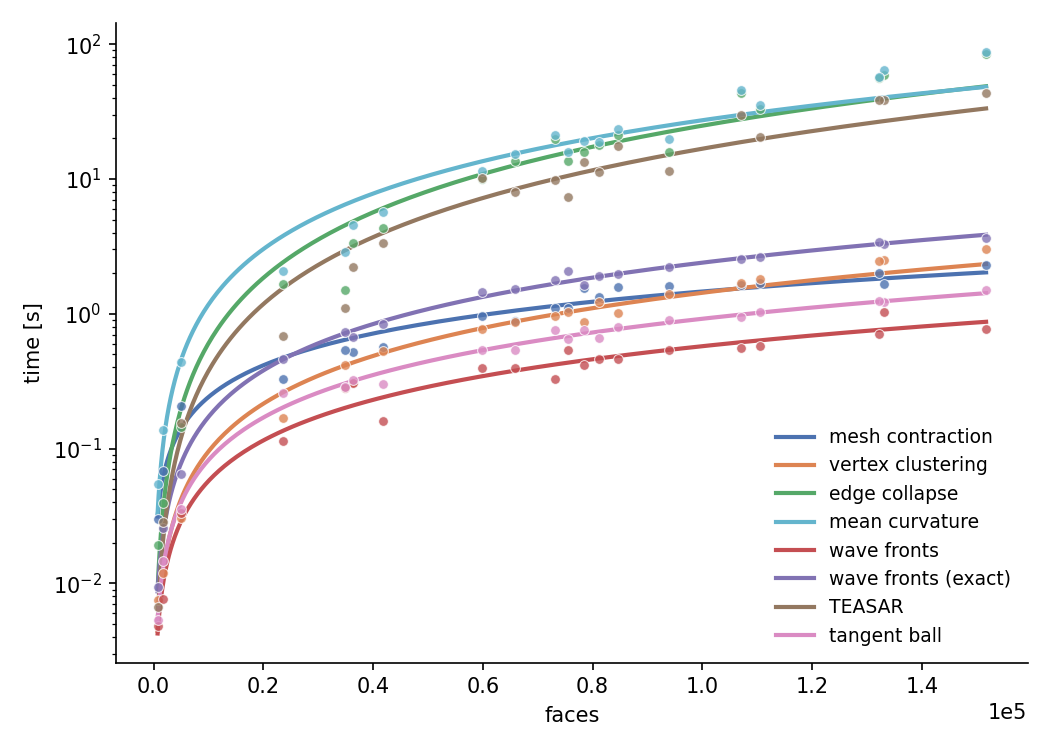
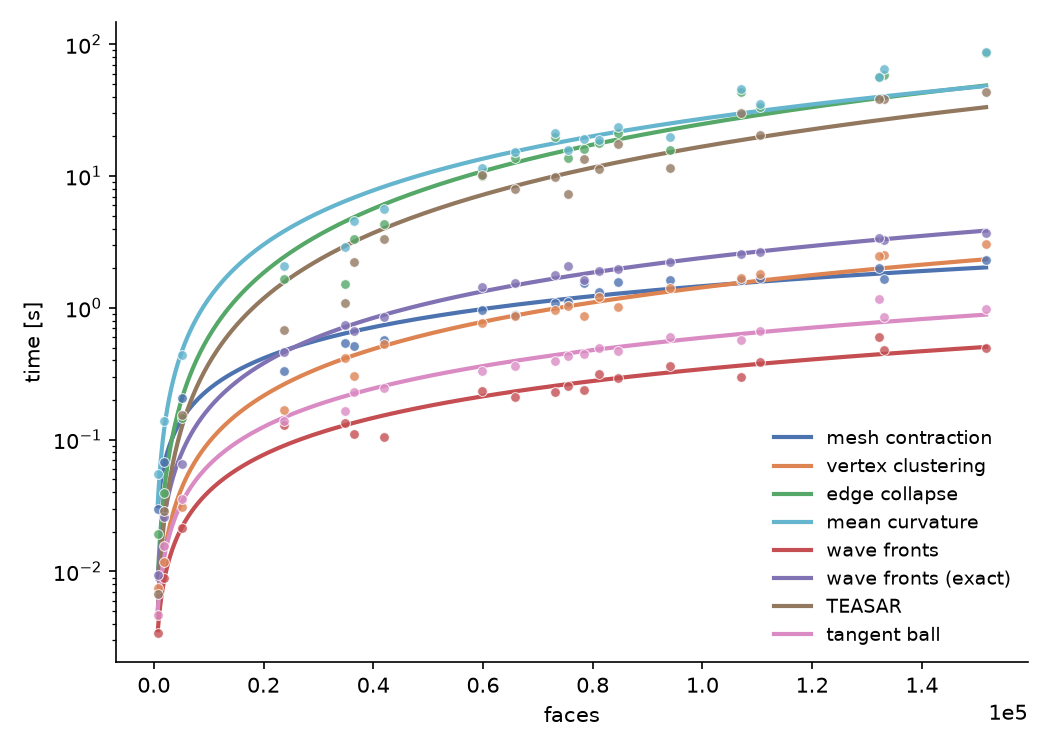
speed up wave front and tangent ball method

diff --git a/skeletor/skeletonize/utils.py b/skeletor/skeletonize/utils.py
@@ -28,6 +28,7 @@ import numpy as np
 import pandas as pd
 import trimesh as tm
 import scipy.sparse
+import scipy.sparse.csgraph
 import scipy.spatial
 
 
@@ -228,6 +229,70 @@ def make_swc(x, coords, reindex=True, validate=True):
         return swc, new_ids
 
     return swc
+
+
+def forest_to_swc(edges, coords, radii, n_nodes):
+    """Generate SWC table directly from a forest (i.e. one tree per component).
+
+    This is a fast alternative to the ``edges_to_graph`` -> ``make_swc`` ->
+    ``reindex_swc`` pipeline for the case where the edges already form a
+    spanning forest: each tree is rooted at its lowest node ID and oriented
+    child -> parent, and new node IDs are assigned in BFS order which
+    guarantees that parents have lower IDs than their children.
+
+    Parameters
+    ----------
+    edges :     (N, 2) array
+                Edge list describing a forest (no cycles!) over nodes
+                ``0..n_nodes-1``. Isolated nodes are allowed and become roots.
+    coords :    (n_nodes, 3) array
+                X/Y/Z locations of nodes.
+    radii :     (n_nodes, ) array
+                Radius for each node.
+    n_nodes :   int
+                Total number of nodes.
+
+    Returns
+    -------
+    swc :       pandas.DataFrame
+    new_ids :   (n_nodes, ) array
+                Maps original node IDs (positional) to re-indexed node IDs.
+
+    """
+    edges = np.asarray(edges, dtype=np.int64).reshape(-1, 2)
+    adj = scipy.sparse.coo_matrix((np.ones(len(edges)),
+                                   (edges[:, 0], edges[:, 1])),
+                                  shape=(n_nodes, n_nodes))
+    _, labels = scipy.sparse.csgraph.connected_components(adj, directed=False)
+
+    # First occurrence of each label = lowest node ID in that component
+    roots = np.unique(labels, return_index=True)[1]
+
+    # With unit weights this is effectively a BFS from all roots at once;
+    # because the graph is a forest the resulting orientation is unique
+    dist, pred, _ = scipy.sparse.csgraph.dijkstra(adj, directed=False,
+                                                  indices=roots,
+                                                  return_predecessors=True,
+                                                  min_only=True)
+
+    # Sorting by BFS depth puts parents before their children
+    order = np.argsort(dist, kind='stable')
+    new_ids = np.empty(n_nodes, dtype=np.int64)
+    new_ids[order] = np.arange(n_nodes)
+
+    parent_ord = pred[order].astype(np.int64)  # -9999 for roots/isolated nodes
+    parent_new = np.full(n_nodes, -1, dtype=np.int64)
+    has_parent = parent_ord >= 0
+    parent_new[has_parent] = new_ids[parent_ord[has_parent]]
+
+    swc = pd.DataFrame({'node_id': np.arange(n_nodes),
+                        'parent_id': parent_new,
+                        'x': coords[order, 0],
+                        'y': coords[order, 1],
+                        'z': coords[order, 2],
+                        'radius': radii[order]})
+
+    return swc, new_ids
 
 
 def reindex_swc(swc, inplace=False):

diff --git a/skeletor/skeletonize/wave.py b/skeletor/skeletonize/wave.py
@@ -25,7 +25,7 @@ from tqdm.auto import tqdm
 
 from ..utilities import make_trimesh
 from .base import Skeleton
-from .utils import make_swc, reindex_swc, edges_to_graph
+from .utils import forest_to_swc
 
 try:
     from fastremap import unique
@@ -145,11 +145,19 @@ def by_wavefront(mesh,
      vertex_to_node_map) = unique(centers_final, return_inverse=True, axis=0)
 
     # Map radii for individual vertices to the collapsed nodes
-    # Using pandas is the fastest way here
-    node_radii = pd.DataFrame()
-    node_radii['node_id'] = vertex_to_node_map
-    node_radii['radius'] = radii_final
-    node_radii = node_radii.groupby('node_id').radius.apply(rad_agg_func).values
+    # (node IDs from unique() are contiguous 0..M-1, so the sorted groupby
+    # output aligns positionally with node IDs)
+    grouped = pd.Series(radii_final).groupby(vertex_to_node_map)
+    if callable(radius_agg):
+        node_radii = grouped.apply(rad_agg_func).values
+    else:
+        # Use pandas' cython-accelerated aggregations - these are much faster
+        # than .apply() which calls the aggregation function once per node
+        node_radii = {'mean': grouped.mean, 'max': grouped.max,
+                      'min': grouped.min, 'median': grouped.median,
+                      'percentile75': lambda: grouped.quantile(0.75),
+                      'percentile25': lambda: grouped.quantile(0.25),
+                      }[radius_agg]().values
 
     # Contract vertices
     G.contract_vertices(vertex_to_node_map)
@@ -184,19 +192,15 @@ def by_wavefront(mesh,
     # We need this to orient all edges towards the root
     tree = G.spanning_tree(weights=1 / weights)
 
-    # Create a directed acyclic and hierarchical graph
-    G_nx = edges_to_graph(edges=np.array(tree.get_edgelist()),
-                          nodes=np.arange(0, len(G.vs)),
-                          fix_tree=True,  # this makes sure graph is oriented
-                          drop_disconnected=False)
-
-    # Generate the SWC table
-    swc = make_swc(G_nx, coords=node_centers, reindex=False, validate=True)
-    swc['radius'] = node_radii[swc.node_id.values]
-    _, new_ids = reindex_swc(swc, inplace=True)
+    # Generate the SWC table (this orients the tree and re-indexes nodes such
+    # that parents always have lower IDs than their children)
+    swc, new_ids = forest_to_swc(np.array(tree.get_edgelist()),
+                                 coords=node_centers,
+                                 radii=node_radii,
+                                 n_nodes=len(G.vs))
 
     # Update vertex to node ID map
-    vertex_to_node_map = np.array([new_ids[n] for n in vertex_to_node_map])
+    vertex_to_node_map = new_ids[vertex_to_node_map]
 
     return Skeleton(swc=swc, mesh=mesh, mesh_map=vertex_to_node_map,
                     method='wavefront')

diff --git a/skeletor/skeletonize/tangent_ball.py b/skeletor/skeletonize/tangent_ball.py
@@ -24,7 +24,7 @@ import scipy.spatial
 import trimesh as tm
 
 from .base import Skeleton
-from .utils import edges_to_graph, make_swc, reindex_swc
+from .utils import forest_to_swc
 
 from ..utilities import make_trimesh
 
@@ -262,19 +262,15 @@ def by_tangent_ball(mesh):
     # Generate hierarchical tree
     tree = G.spanning_tree(weights=weights)
 
-    # Create a directed acyclic and hierarchical graph
-    G_nx = edges_to_graph(edges=np.array(tree.get_edgelist()),
-                          nodes=np.arange(0, len(G.vs)),
-                          fix_tree=True,
-                          drop_disconnected=False)
-
-    # Generate the SWC table
-    swc = make_swc(G_nx, coords=centers, reindex=False)
-    swc['radius'] = radii[swc.node_id.values]
-    _, new_ids = reindex_swc(swc, inplace=True)
+    # Generate the SWC table (this orients the tree and re-indexes nodes such
+    # that parents always have lower IDs than their children)
+    swc, new_ids = forest_to_swc(np.array(tree.get_edgelist()),
+                                 coords=centers,
+                                 radii=radii,
+                                 n_nodes=len(G.vs))
 
     # Update vertex to node ID map
-    mesh_map = np.array([new_ids[n] for n in mesh_map])
+    mesh_map = new_ids[mesh_map]
 
     return Skeleton(swc=swc, mesh=mesh, mesh_map=mesh_map,
                     method='tangent_ball')